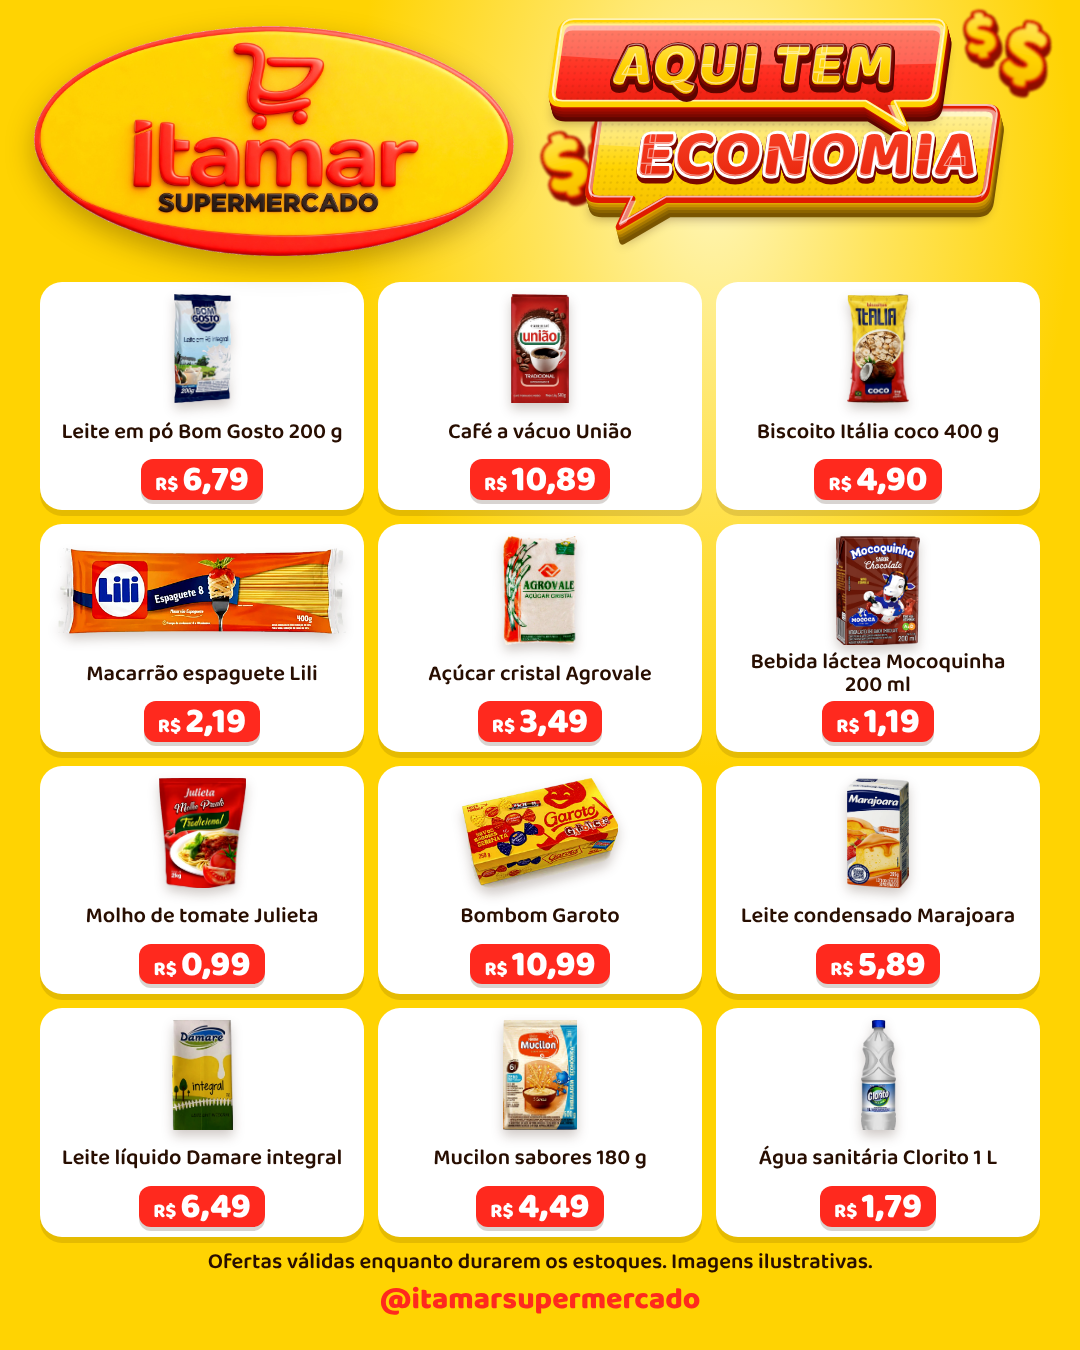
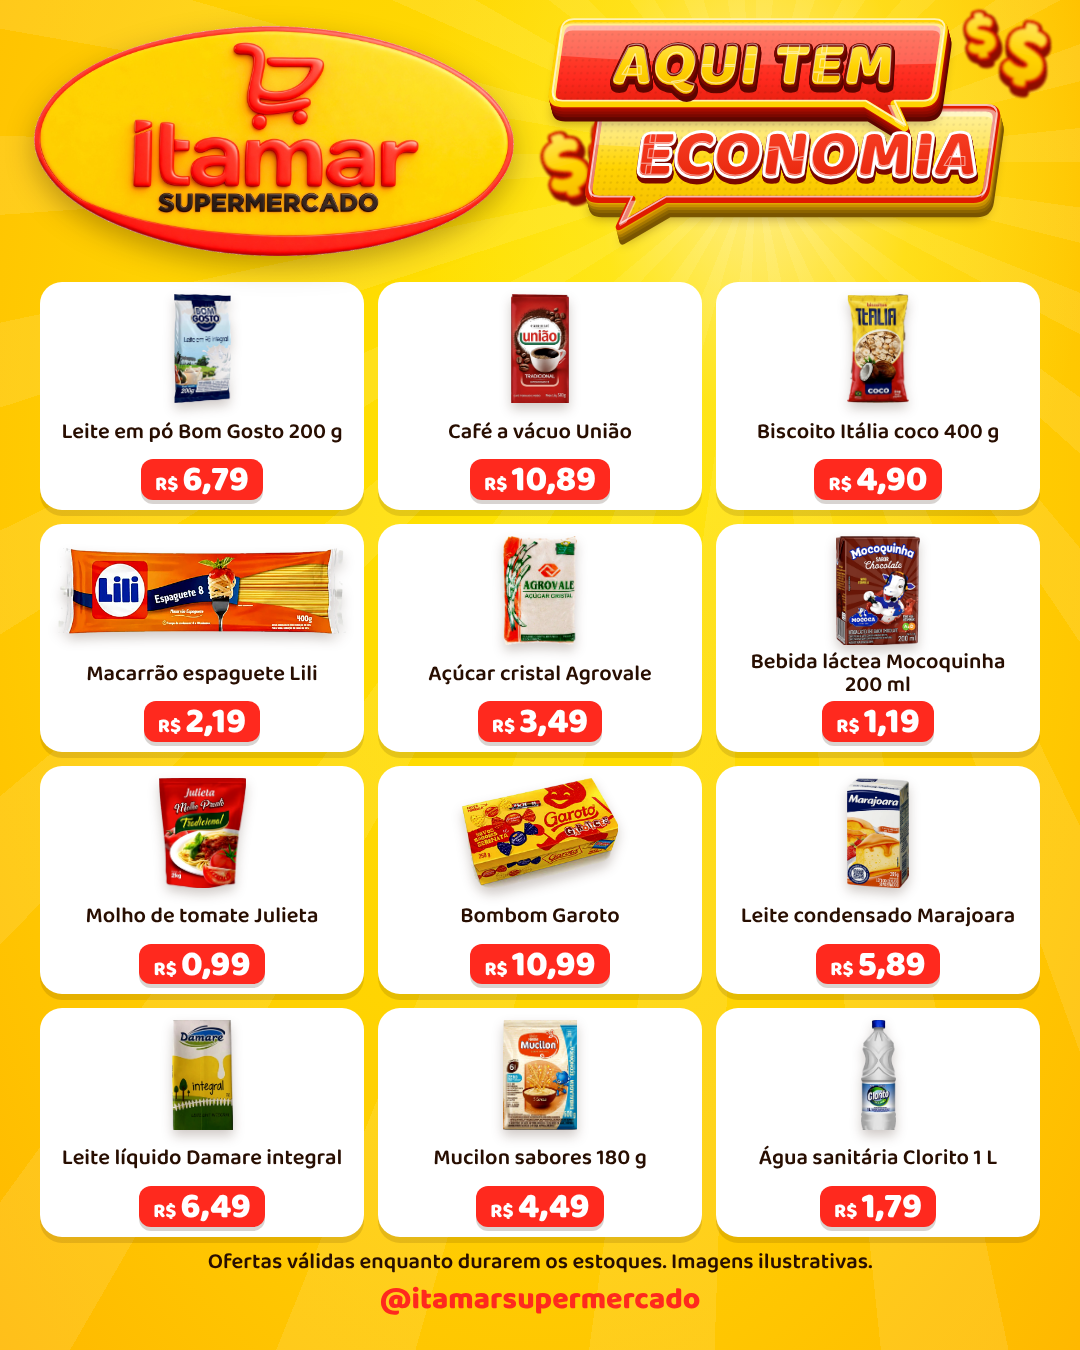
Itamar mercearia: fundo amarelo mais vivo com brilho e raios
Claude-Session: https://claude.ai/code/session_01RAcsiCUqH9iCNBekL3L4L7

diff --git a/clientes/itamar-supermercado/entregas/2026-11-19-ofertas-mercearia/card-ofertas.html b/clientes/itamar-supermercado/entregas/2026-11-19-ofertas-mercearia/card-ofertas.html
@@ -3,7 +3,7 @@
 <style>
 :root{--amarelo:#FFD302;--vermelho:#FF291E;--marrom:#280E01}
 *{box-sizing:border-box;margin:0}
-body{width:1080px;height:1350px;background:var(--amarelo);font-family:"Baloo 2",sans-serif;color:var(--marrom);display:flex;flex-direction:column;padding:0 40px 26px;gap:12px;background-image:radial-gradient(ellipse at 66% 13%,#FFF6B8 0,#FFE45C 170px,transparent 360px)}
+body{width:1080px;height:1350px;background:var(--amarelo);font-family:"Baloo 2",sans-serif;color:var(--marrom);display:flex;flex-direction:column;padding:0 40px 26px;gap:12px;background-image:radial-gradient(ellipse at 70% 12%,rgba(255,255,255,.55) 0,rgba(255,240,60,.4) 160px,transparent 340px),repeating-conic-gradient(from 0deg at 70% 12%,rgba(255,255,255,.10) 0 6deg,transparent 6deg 14deg),radial-gradient(ellipse at 50% 35%,#FFE600 0,#FFD302 50%,#FFB800 100%)}
 .top{position:relative;height:270px;flex:none;margin:0 -40px}
 .top>img{position:absolute;left:34px;top:26px;width:480px;filter:drop-shadow(0 10px 14px rgba(40,14,1,.3));z-index:3}
 .top svg.t{position:absolute;overflow:visible}
